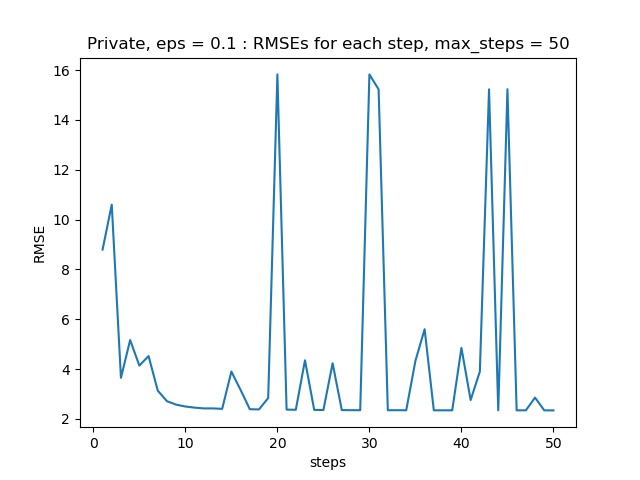
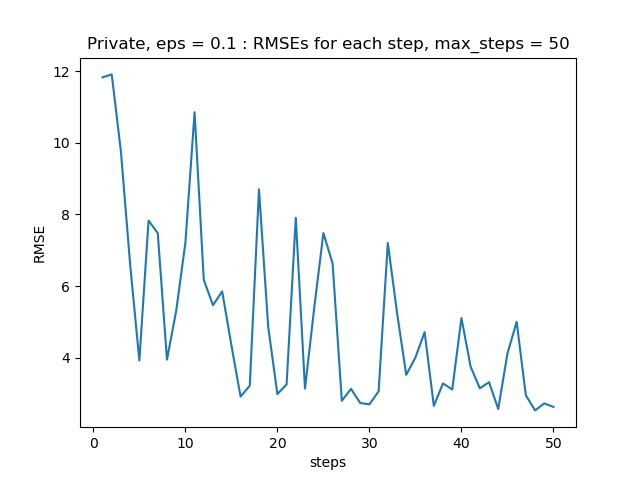
add averaging for plots

diff --git a/main.py b/main.py
@@ -176,22 +176,28 @@ private_RMSEs = []
 #Number of steps in time
 max_steps = 50
 
+#mu, 1000 by default
+mu=1000 
+
+"""
 #Purely local models; W = np.identity(n)
 RMSEs = []
-mu=1000 
+RMSEsLog = []
 
 
 for i in range(0,5):
     if i==0:
         model, RMSEsLog = train(train_data, np.identity(n), train_agents_data_idx, False, mu, locL, max_steps, eps, logErrors=True)
     else:
-        model, _ = train(train_data, np.identity(n), train_agents_data_idx, False, mu, locL, max_steps, eps)
+        model, RMSEsLogTemp = train(train_data, np.identity(n), train_agents_data_idx, False, mu, locL, max_steps, eps, logErrors=True)
+        RMSEsLog = [sum(x) for x in zip(RMSEsLog, RMSEsLogTemp)]
 
     print('trained a model for {} steps'.format(max_steps))
     user_RMSEs = evaluate(test_data, model, test_agents_data_idx)
     print('Without privacy :', sum(user_RMSEs)/len(user_RMSEs))
     RMSEs.append(sum(user_RMSEs)/len(user_RMSEs))
-    if i==0:
+    if i==4:
+        RMSEsLog[:] = [x / 5 for x in RMSEsLog]
         print(RMSEsLog)
         plt.plot([j + 1 for j in range(len(RMSEsLog))], RMSEsLog)
         plt.xlabel("steps")
@@ -207,19 +213,21 @@ print('######################')
 
 #Non-priv. CD
 RMSEs = []
-mu = 1000
+RMSEsLog = []
 
 for i in range(0,5):
     if i==0:
         model, RMSEsLog = train(train_data, W, train_agents_data_idx, False, mu, locL, max_steps, eps, logErrors=True)
     else:
-        model, _ = train(train_data, W, train_agents_data_idx, False, mu, locL, max_steps, eps)
-    
+        model, RMSEsLogTemp = train(train_data, W, train_agents_data_idx, False, mu, locL, max_steps, eps, logErrors=True)
+        RMSEsLog = [sum(x) for x in zip(RMSEsLog, RMSEsLogTemp)]
+
     print('trained a model for {} steps'.format(max_steps))
     user_RMSEs = evaluate(test_data, model, test_agents_data_idx)
     print('Without privacy :', sum(user_RMSEs)/len(user_RMSEs))
     RMSEs.append(sum(user_RMSEs)/len(user_RMSEs))
-    if i==0:
+    if i==4:
+        RMSEsLog[:] = [x / 5 for x in RMSEsLog]
         print(RMSEsLog)
         plt.plot([j + 1 for j in range(len(RMSEsLog))], RMSEsLog)
         plt.xlabel("steps")
@@ -235,19 +243,22 @@ print('######################')
 
 #Private, eps = 1.0
 RMSEs = []
+RMSEsLog = []
 eps = [1.0]*n
 
 for i in range(0,5):
     if i==0:
         model, RMSEsLog = train(train_data, W, train_agents_data_idx, True, mu, locL, max_steps, eps, logErrors=True)
     else:
-        model, _ = train(train_data, W, train_agents_data_idx, True, mu, locL, max_steps, eps)
+        model, RMSEsLogTemp = train(train_data, W, train_agents_data_idx, True, mu, locL, max_steps, eps, logErrors=True)
+        RMSEsLog = [sum(x) for x in zip(RMSEsLog, RMSEsLogTemp)]
 
     print('trained a model for {} steps'.format(max_steps))
     user_RMSEs = evaluate(test_data, model, test_agents_data_idx)
     print('With privacy :', sum(user_RMSEs)/len(user_RMSEs))
     RMSEs.append(sum(user_RMSEs)/len(user_RMSEs))
-    if i==0:
+    if i==4:
+        RMSEsLog[:] = [x / 5 for x in RMSEsLog]
         print(RMSEsLog)
         plt.plot([j + 1 for j in range(len(RMSEsLog))], RMSEsLog)
         plt.xlabel("steps")
@@ -262,19 +273,22 @@ print('######################')
 
 #Private, eps = 0.5
 RMSEs = []
+RMSEsLog = []
 eps = [0.5]*n
 
 for i in range(0,5):
     if i==0:
         model, RMSEsLog = train(train_data, W, train_agents_data_idx, True, mu, locL, max_steps, eps, logErrors=True)
     else:
-        model, _ = train(train_data, W, train_agents_data_idx, True, mu, locL, max_steps, eps)
+        model, RMSEsLogTemp = train(train_data, W, train_agents_data_idx, True, mu, locL, max_steps, eps, logErrors=True)
+        RMSEsLog = [sum(x) for x in zip(RMSEsLog, RMSEsLogTemp)]
 
     print('trained a model for {} steps'.format(max_steps))
     user_RMSEs = evaluate(test_data, model, test_agents_data_idx)
     print('With privacy :', sum(user_RMSEs)/len(user_RMSEs))
     RMSEs.append(sum(user_RMSEs)/len(user_RMSEs))
-    if i==0:
+    if i==4:
+        RMSEsLog[:] = [x / 5 for x in RMSEsLog]
         print(RMSEsLog)
         plt.plot([j + 1 for j in range(len(RMSEsLog))], RMSEsLog)
         plt.xlabel("steps")
@@ -286,21 +300,25 @@ for i in range(0,5):
 
 print('Private RMSE with eps={} : {}'.format(eps[0],sum(RMSEs)/len(RMSEs)))
 print('######################')
-
+"""
 #Private, eps = 0.1
 RMSEs = []
+RMSEsLog = []
 eps = [0.1]*n
 
 for i in range(0,5):
     if i==0:
         model, RMSEsLog = train(train_data, W, train_agents_data_idx, True, mu, locL, max_steps, eps, logErrors=True)
     else:
-        model, _ = train(train_data, W, train_agents_data_idx, True, mu, locL, max_steps, eps)
+        model, RMSEsLogTemp = train(train_data, W, train_agents_data_idx, True, mu, locL, max_steps, eps, logErrors=True)
+        RMSEsLog = [sum(x) for x in zip(RMSEsLog, RMSEsLogTemp)]
+
     print('trained a model for {} steps'.format(max_steps))
     user_RMSEs = evaluate(test_data, model, test_agents_data_idx)
     print('With privacy :', sum(user_RMSEs)/len(user_RMSEs))
     RMSEs.append(sum(user_RMSEs)/len(user_RMSEs))
-    if i==0:
+    if i==4:
+        RMSEsLog[:] = [x / 5 for x in RMSEsLog]
         print(RMSEsLog)
         plt.plot([j + 1 for j in range(len(RMSEsLog))], RMSEsLog)
         plt.xlabel("steps")
